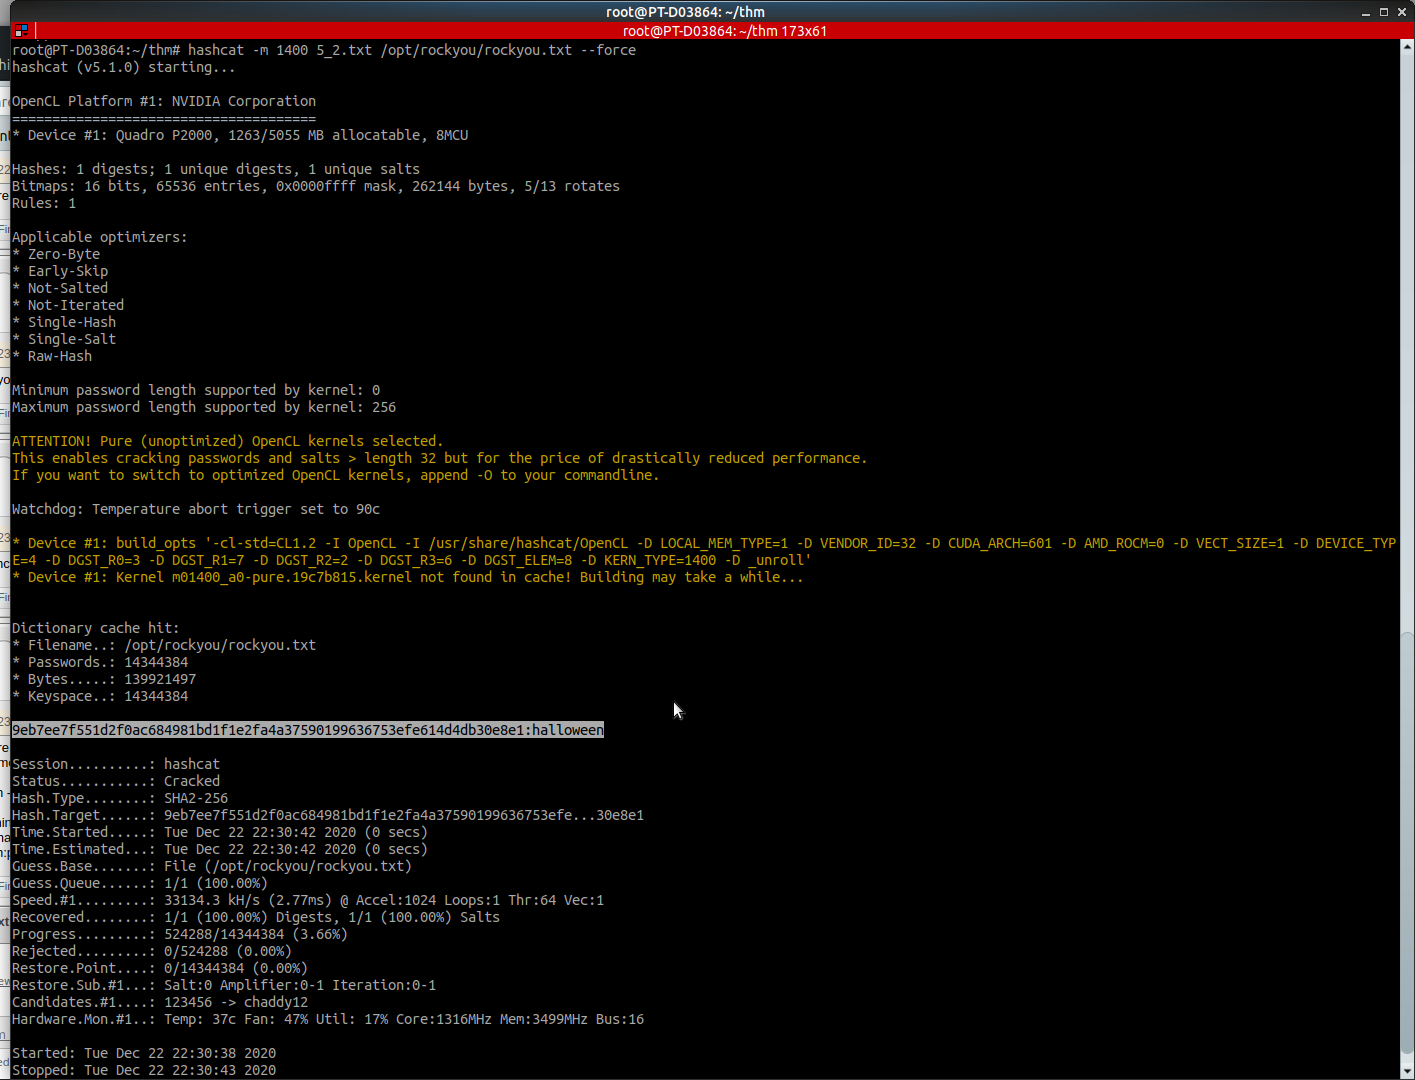
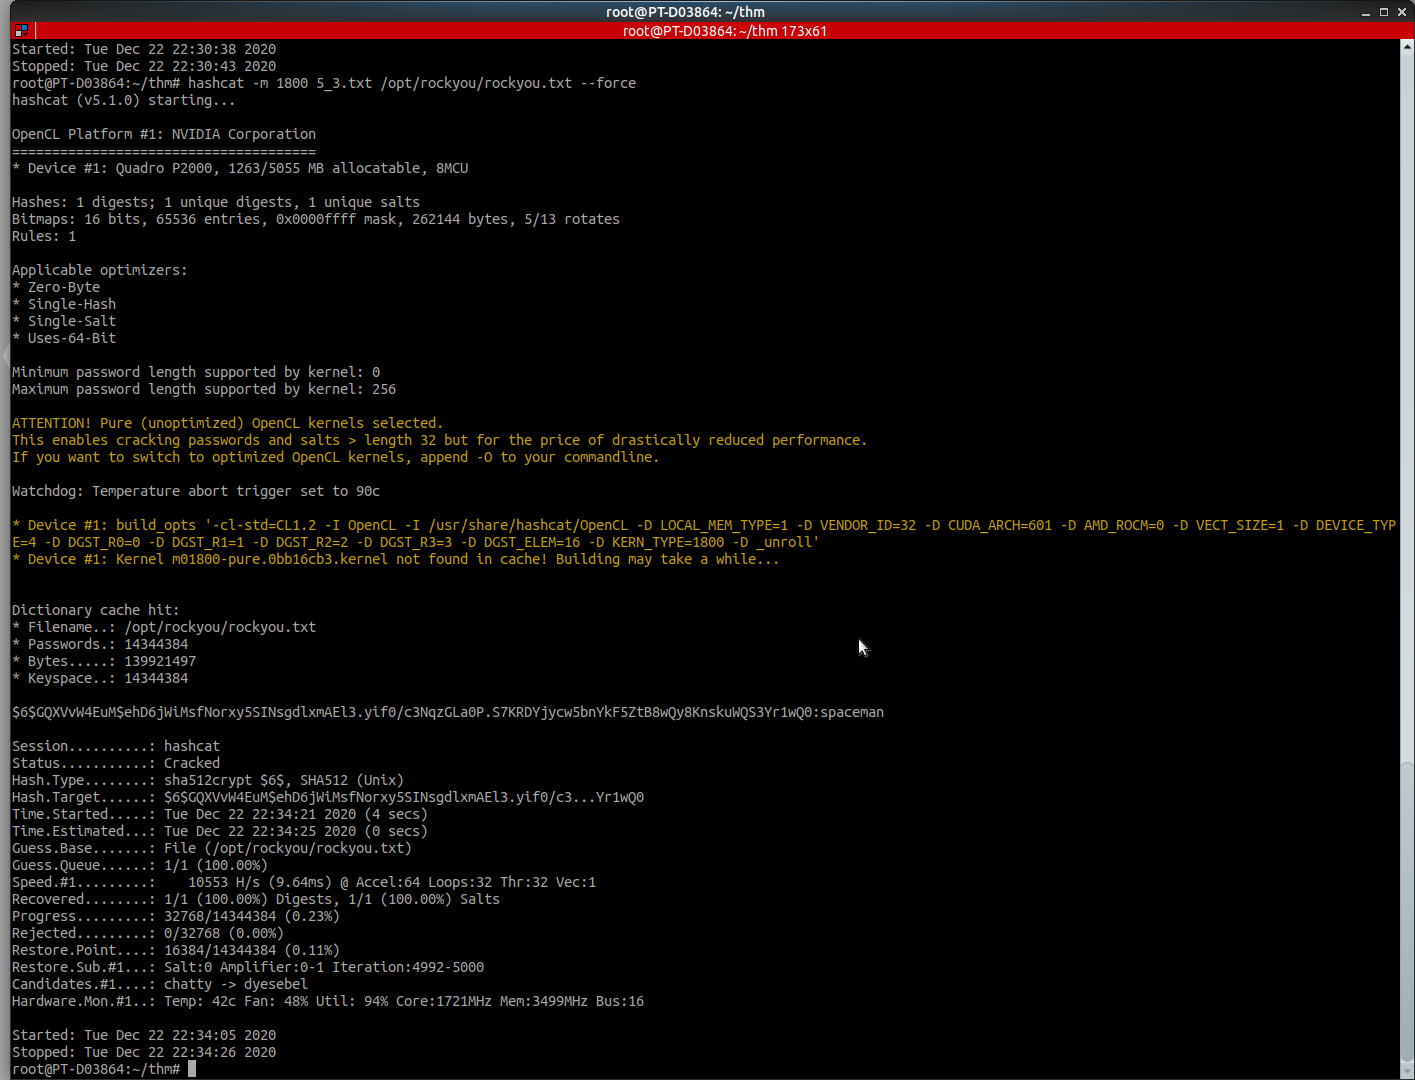
GitBook: [master] one page and 5 assets modified

diff --git a/crypto/hashing-crypto-101.md b/crypto/hashing-crypto-101.md
@@ -128,34 +128,34 @@ hashcat -m 3200 5_1.txt /opt/rockyou/rockyou.txt --force
 hashcat -m 1400 5_2.txt /opt/rockyou/rockyou.txt --force
 ```
 
-![](../.gitbook/assets/image%20%28324%29.png)
+![](../.gitbook/assets/image%20%28326%29.png)
 
 {% hint style="success" %}
 halloween
 {% endhint %}
 
-
-
 ### Crack this hash: $6$GQXVvW4EuM$ehD6jWiMsfNorxy5SINsgdlxmAEl3.yif0/c3NqzGLa0P.S7KRDYjycw5bnYkF5ZtB8wQy8KnskuWQS3Yr1wQ0
 
-![](../.gitbook/assets/image%20%28322%29.png)
+![](../.gitbook/assets/image%20%28323%29.png)
 
 ```text
-
+hashcat -m 1800 5_3.txt /opt/rockyou/rockyou.txt --force
 ```
 
+![](../.gitbook/assets/image%20%28324%29.png)
+
 {% hint style="success" %}
-1750
+spaceman
 {% endhint %}
 
 ### Bored of this yet? Crack this hash: b6b0d451bbf6fed658659a9e7e5598fe
 
-```text
+{% embed url="https://hashes.com/en/tools/hash\_identifier" %}
 
-```
+![](../.gitbook/assets/image%20%28322%29.png)
 
 {% hint style="success" %}
-1750
+funforyou
 {% endhint %}
 
 ## Task 6 Hashing for integrity checking
